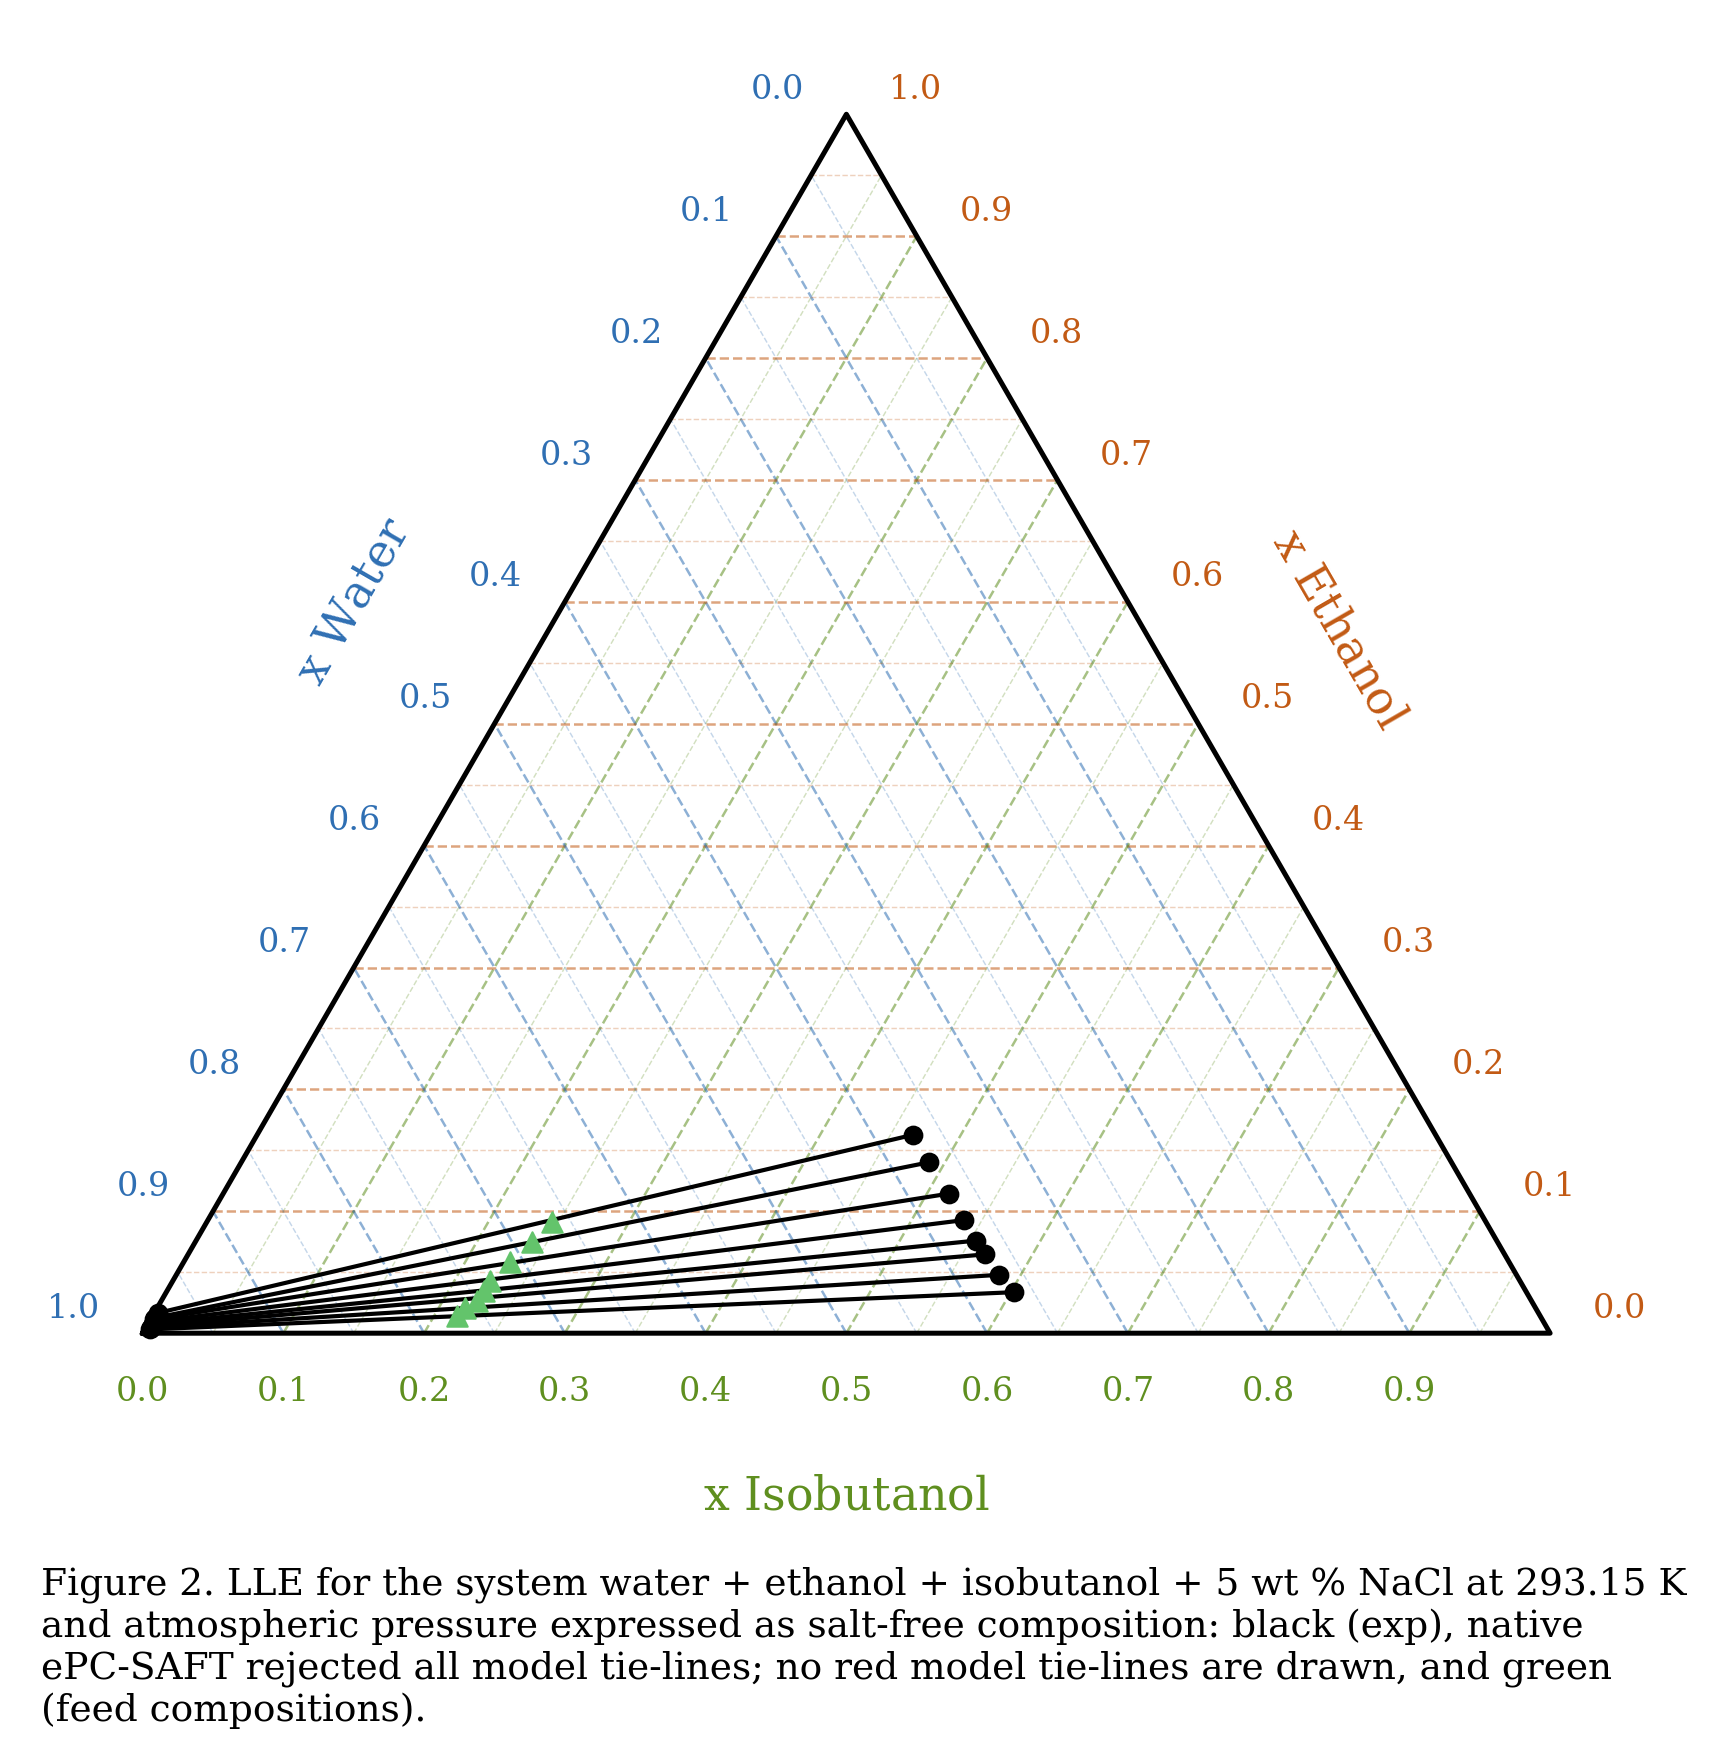
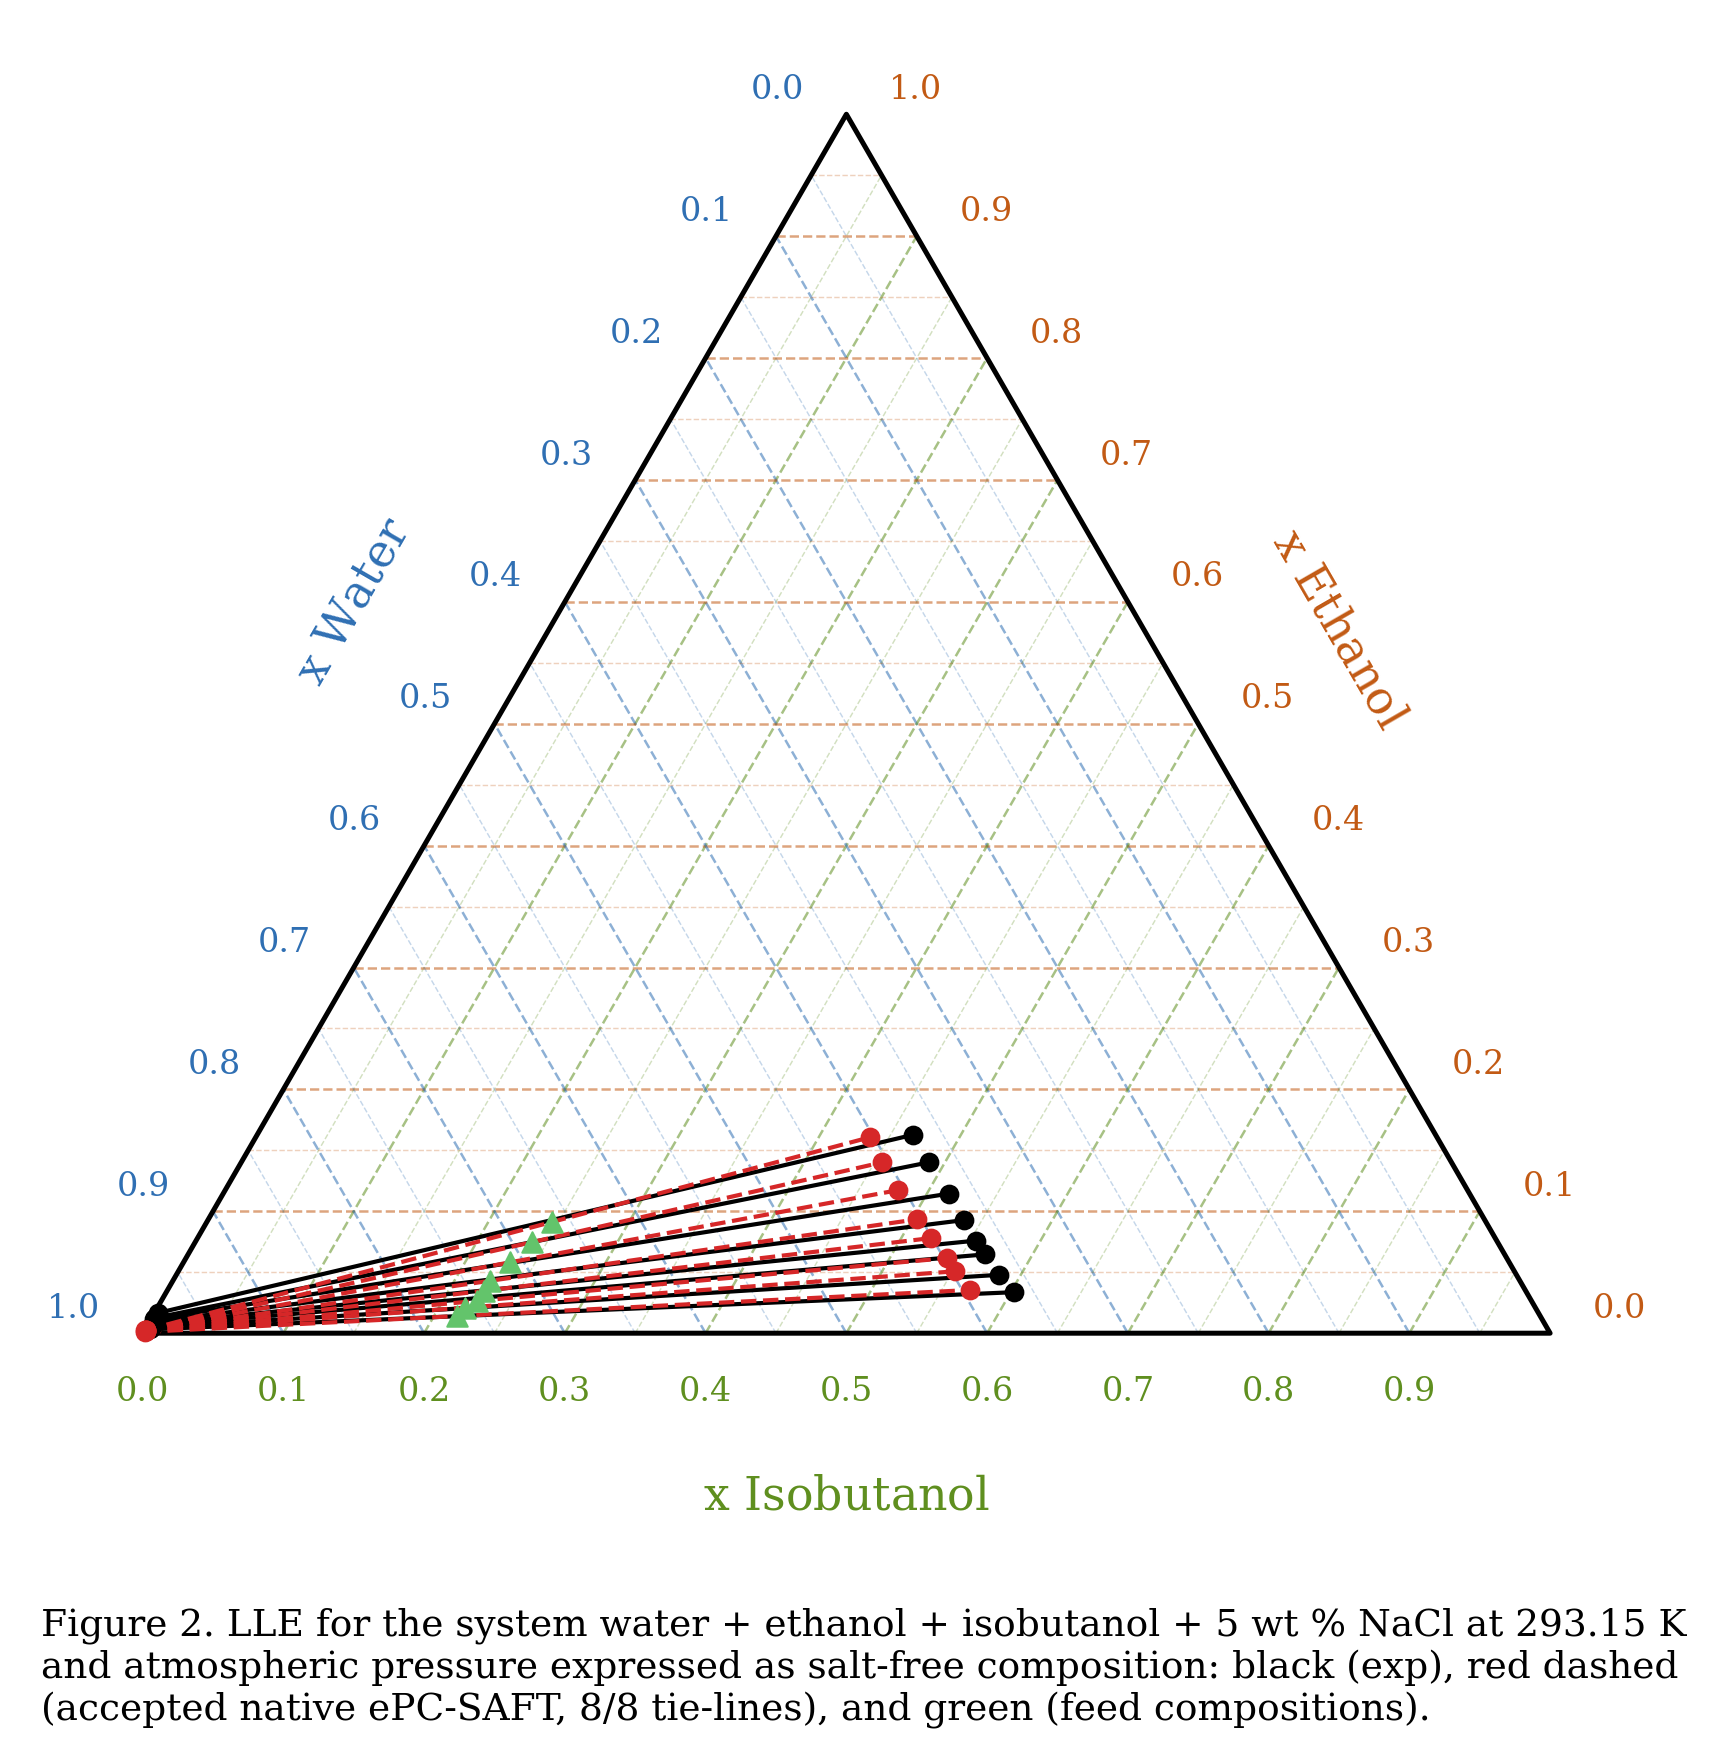
Fix Khudaida Figure 2 native tie-line recompute

Changed region(s): [[0.0309, 0.8903, 0.9883, 0.9824], [0.0618, 0.6447, 0.5868, 0.7675]]

diff --git a/tests/equilibrium/test_electrolyte_lle_confidence.py b/tests/equilibrium/test_electrolyte_lle_confidence.py
@@ -59,18 +59,20 @@ def test_khudaida_smoke_cases_return_results_or_diagnostic_failures() -> None:
 
 def test_khudaida_paper_validation_recompute_uses_native_lle() -> None:
     common = importlib.import_module("scripts.paper_validation.2026_Khudaida_analysis._common")
-    exp_row = common._experimental_rows(0.10, 303.15)[0]
-    feed_row = common._digitized_feed_rows_for_figure(6, 303.15, 0.10)[0]
+    exp_row = common._experimental_rows(0.05, 293.15)[0]
+    feed_row = common._digitized_feed_rows_for_figure(2, 293.15, 0.05)[0]
     result = common._solve_formula_feed(
-        303.15,
+        293.15,
         feed_row["feed_formula"],
         [exp_row["organic_formula"], exp_row["aqueous_formula"]],
     )
 
     assert result is not None
     assert result["source"] == "epcsaft_native_v5"
-    assert result["converged"] in {True, False}
-    assert result["residual_norm"] >= 0.0
+    assert result["converged"] is True
+    assert result["residual_norm"] <= 1.0e-6
+    assert np.all(np.isfinite(result["organic_formula"]))
+    assert np.all(np.isfinite(result["aqueous_formula"]))
 
 
 @pytest.mark.skipif(
@@ -96,4 +98,3 @@ def test_opt_in_confidence_report_generates_full_outputs(tmp_path: Path) -> None
     assert summary["case_count"] >= 35
     assert summary["accepted_count"] + summary["diagnostic_failure_count"] == summary["case_count"]
     assert summary["ceres_reported"] is False
-

diff --git a/scripts/paper_validation/2026_Khudaida_analysis/_common.py b/scripts/paper_validation/2026_Khudaida_analysis/_common.py
@@ -758,7 +758,7 @@ def _solve_formula_feed(temperature_k: float, feed_formula: np.ndarray, seed_for
             P=P_REF,
             z=z_feed,
             initial_phases={"aq": aq_seed, "org": org_seed, "phase_fraction": beta_org},
-            options=epcsaft.EquilibriumOptions(max_iterations=5, tolerance=1.0e-8, damping=0.5),
+            options=epcsaft.EquilibriumOptions(max_iterations=180, tolerance=1.0e-8, damping=0.5),
         )
     except epcsaft.SolutionError as exc:
         diagnostics = getattr(exc, "diagnostics", None) or (exc.args[1] if len(exc.args) > 1 and isinstance(exc.args[1], dict) else {})